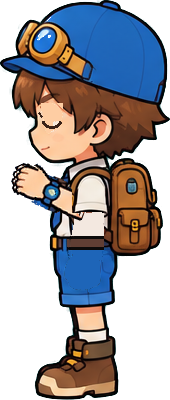
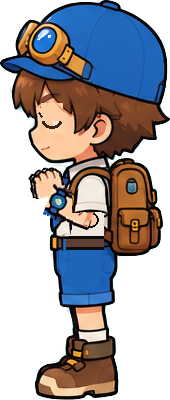
reborner: Rion พนมมือรอบ 2 — ข้อพับศอก + มือตั้งนิ้วขึ้น
Claude-Session: https://claude.ai/code/session_01GQscemcyhAULQ41Vq3Zx3F

Changed region(s): [[0.0588, 0.39, 0.5882, 0.6], [0.3824, 0.6, 0.4118, 0.66], [0.5882, 0.66, 0.6176, 0.69]]

diff --git a/reborner/tools/sprites/rion_poses.py b/reborner/tools/sprites/rion_poses.py
@@ -42,7 +42,9 @@ DERIVED = {"right": ("left", "หันขวา (#4 · พลิกจากห
 # left_pray (kwan เลือก "2" ลองวาดเอง): ยกแขนใกล้ (ผิว+นาฬิกา+เส้นขอบ ใต้ชายแขนเสื้อ แถว 212–292) หมุนรอบข้อศอก PRAY_PIVOT -110° ให้มือตั้งหน้าอก
 #   ที่เดิมของแขนเติมสีตามแถบเสื้อ/ขอบ/เข็มขัด/ขอบ/กางเกง (วัดจากคอลัมน์ข้างแขน) · มือข้างไกล = ชิ้นเดียวกันเลื่อน (-3,-2) สีเข้ม 82% ·
 #   แปะชายแขนเสื้อเดิมทับรอยตัด · หลับตา = ทาผิวทับตา (x41–62 y103–133) + เส้นโค้งลง
-PRAY_BOX, PRAY_PIVOT, PRAY_ANG = (212, 293, 64, 104), (89, 209), -110
+PRAY_BOX, PRAY_PIVOT, PRAY_ANG = (212, 293, 64, 104), (89, 216), -110
+PRAY_HAND_ANG, PRAY_HAND_DY, PRAY_FAR_OFF = -170, 0, (-3, -1)   # มือ: นิ้วชี้ขึ้น เอียงไปหน้า 10° · มือไกลเลื่อนไปหน้า
+PRAY_ELBOW, PRAY_CREASE, PRAY_SKIN = (90, 219), ((79, 214), (85, 208)), (246, 205, 170)
 PRAY_BANDS = [((212, 236), (243, 232, 224)), ((236, 239), (12, 10, 10)), ((239, 247), (96, 62, 52)), ((247, 250), (12, 10, 10)), ((250, 293), (30, 101, 184))]
 
 
@@ -63,17 +65,29 @@ def derive_pray(a, al):
 	core = ndimage.binary_closing(skin | watch, iterations=2) & box
 	arm = core | (ndimage.binary_dilation(core, iterations=3) & box & (r + g + b < 260) & (al > .8))
 	piece = np.zeros_like(rgba); piece[arm] = rgba[arm]
-	out = rgba.copy(); zone = ndimage.binary_dilation(arm, iterations=4) & box
+	out = rgba.copy(); zone = ndimage.binary_dilation(arm, iterations=5) & box
 	for (ya, yb), col in PRAY_BANDS:
 		col = np.array(col)
 		for y in range(ya, yb):
 			for x in np.nonzero(zone[y])[0]:
-				if arm[y, x] or np.abs(rgba[y, x, :3] - col).max() > 45: out[y, x, :3] = col; out[y, x, 3] = 255
+				if arm[y, x] or np.abs(rgba[y, x, :3] - col).max() > 30: out[y, x, :3] = col; out[y, x, 3] = 255
 	img = Image.fromarray(out.astype(np.uint8), "RGBA")
-	pim = Image.fromarray(piece.astype(np.uint8), "RGBA").rotate(PRAY_ANG, center=PRAY_PIVOT, resample=Image.BICUBIC)
-	far = np.array(pim).astype(int); far[..., :3] = far[..., :3] * 82 // 100
-	sh = Image.new("RGBA", img.size); sh.alpha_composite(Image.fromarray(far.astype(np.uint8), "RGBA"), (-3, -2))
-	img.alpha_composite(sh); img.alpha_composite(pim)
+	# แยกท่อนแขน (ใต้ชายแขนเสื้อ → ใต้นาฬิกา) กับมือ (ใต้นาฬิกาลงไป) · ท่อนแขนหมุนรอบข้อศอก · มือหมุนรอบข้อมือให้นิ้วตั้งขึ้น แล้วย้ายไปปลายท่อนแขน
+	wy = WATCH_ROWS[1]; fore = piece.copy(); fore[wy:] = 0; hand = piece.copy(); hand[:wy + 1] = 0
+	hand[(hand[..., 2] > hand[..., 0] + 20)] = 0   # ตัดเศษสายนาฬิกาสีฟ้าออกจากชิ้นมือ
+	px, py = PRAY_PIVOT; th = np.radians(PRAY_ANG); wx0 = WATCH_COLS[0] + (WATCH_COLS[1] - WATCH_COLS[0]) // 2 - 2
+	wx, wyy = px + (wx0 - px) * np.cos(th) + (wy - py) * np.sin(th), py - (wx0 - px) * np.sin(th) + (wy - py) * np.cos(th)
+	fim = Image.fromarray(fore.astype(np.uint8), "RGBA").rotate(PRAY_ANG, center=PRAY_PIVOT, resample=Image.BICUBIC)
+	him = Image.fromarray(hand.astype(np.uint8), "RGBA").rotate(PRAY_HAND_ANG, center=(wx0, wy), resample=Image.BICUBIC)
+	hl = Image.new("RGBA", img.size); hl.alpha_composite(him, (int(round(wx - wx0)), int(round(wyy - wy)) + PRAY_HAND_DY))
+	near = Image.new("RGBA", img.size); near.alpha_composite(hl); near.alpha_composite(fim)   # ท่อนแขน (มีนาฬิกา) ทับโคนมือ
+	far = np.array(hl).astype(int); far[..., :3] = far[..., :3] * 82 // 100
+	sh = Image.new("RGBA", img.size); sh.alpha_composite(Image.fromarray(far.astype(np.uint8), "RGBA"), PRAY_FAR_OFF)
+	# ข้อพับ: ศอกกลมใต้ชายแขนเสื้อ (ปลายศอกชี้ลง-หลัง) วาดก่อนท่อนแขน + เส้นข้อพับด้านในตรงมุมที่ท่อนแขนพับขึ้น
+	d = ImageDraw.Draw(img); ex, ey0 = PRAY_ELBOW
+	d.ellipse((ex - 9, ey0 - 7, ex + 8, ey0 + 8), fill=PRAY_SKIN + (255,), outline=(20, 12, 10, 255), width=2)
+	img.alpha_composite(sh); img.alpha_composite(near)
+	d = ImageDraw.Draw(img); d.line(PRAY_CREASE, fill=(170, 96, 72, 255), width=2)   # เส้นข้อพับด้านใน
 	sm = np.zeros((H, W), bool); sm[170:213, 72:106] = True; sm &= (al > .8) & ~arm   # ชายแขนเสื้อทับรอยตัด
 	sleeve = np.zeros_like(rgba); sleeve[sm] = rgba[sm]; img.alpha_composite(Image.fromarray(sleeve.astype(np.uint8), "RGBA"))
 	o = np.array(img).astype(int); sk = o[128, 66].copy()

diff --git a/reborner/CLAUDE.md b/reborner/CLAUDE.md
@@ -569,7 +569,9 @@ Sim ปิดตัวเองเมื่อรัน headless · บรรท
     ข้อจำกัด: ผม/แว่นบนหมวกกลับด้านตามภาพพลิก · ขอบกางเกงใต้ข้อมือมีรอยต่อเล็ก (เห็นตอนซูม)
   **#10 พนมมือ ตัวอย่างแก้เอง (kwan เลือก "2")**: `derive_pray` ใน rion_poses.py → `left_pray.png` · ยกแขนใกล้ (ผิว+นาฬิกา) หมุนรอบข้อศอก -110° ให้มือตั้งหน้าอก ·
     ที่เดิมของแขนเติมสีตามแถบเสื้อ/เข็มขัด/กางเกง · มือไกล = ชิ้นเดียวกันเลื่อนสีเข้ม · แปะชายแขนเสื้อทับรอยตัด · หลับตา = ทาผิวทับ + เส้นโค้ง · หน้าเทส Version 5 คลิป "พนมมือ รวมสมาธิ" · **รอ kwan ตัดสิน**
-    ข้อจำกัด: มือเป็นภาพมือห้อยเดิมหมุน (ดูเหมือนกำมือประกบ ไม่ใช่ฝ่ามือแบนิ้วตั้ง) · แขนท่อนบนยังห้อยในแขนเสื้อ · ลายเส้นปิดตา/รอยเติมสีวาดด้วยโค้ด ไม่ใช่ลายมือต้นฉบับ · รอยจางของมือเดิมบนกางเกงเห็นตอนซูม · #8 คุกเข่ายังไม่ได้ทำ
+    **รอบ 2 (kwan "2 ทำข้อพับเพิ่ม" · Version 6)**: แยกท่อนแขน/มือที่ใต้นาฬิกา · มือหมุนรอบข้อมือ -170° นิ้วตั้งขึ้น (ฝ่ามือประกบแทนกำมือ) · ข้อศอกกลมใต้ชายแขนเสื้อ (หมุนรอบ (89,216)) + เส้นข้อพับด้านใน ·
+      ตัดเศษสายนาฬิกาสีฟ้าออกจากชิ้นมือ · ลบรอยมือเดิมบนกางเกงแรงขึ้น (ขยาย 5 · ต่างจากสีแถบ > 30)
+    ข้อจำกัด: มือยังเป็นภาพมือเดิมหมุน (นิ้วงอ ไม่ใช่นิ้วเหยียดตรง) · นาฬิกาเกยโคนมือเล็กน้อย · แขนท่อนบนยังห้อยในแขนเสื้อ · ลายเส้นปิดตา/รอยเติมสีวาดด้วยโค้ด ไม่ใช่ลายมือต้นฉบับ · รอยจางของมือเดิมบนกางเกงเห็นตอนซูม · #8 คุกเข่ายังไม่ได้ทำ
   Blender (apt) นำเข้า glb ต้องมี numpy → `start_blender_mcp.sh` ลง python3-numpy ให้เองแล้ว (kwan 14 ต.ค. "ลง numpy") · **รอ kwan เจนชีตใหม่**
 
 ## night-forge VFX Lab MCP (kwan 13 ต.ค. 2026 "ตั้งเป็นเซิร์ฟเวอร์ MCP ถาวร")
